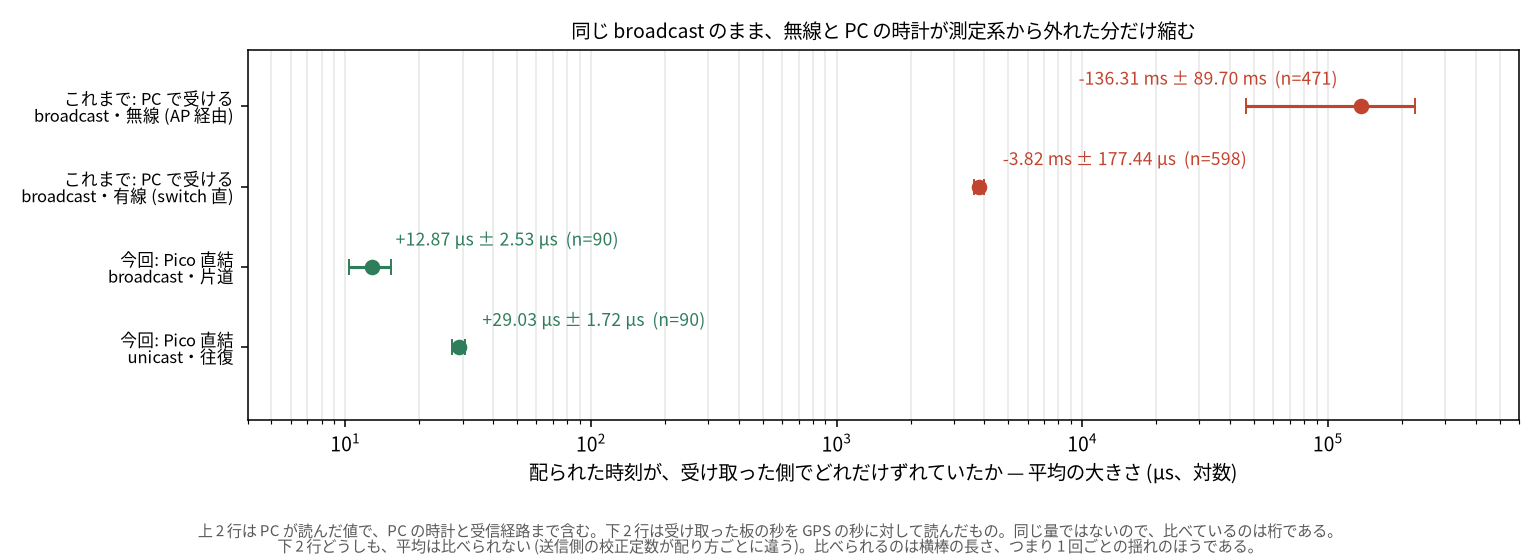
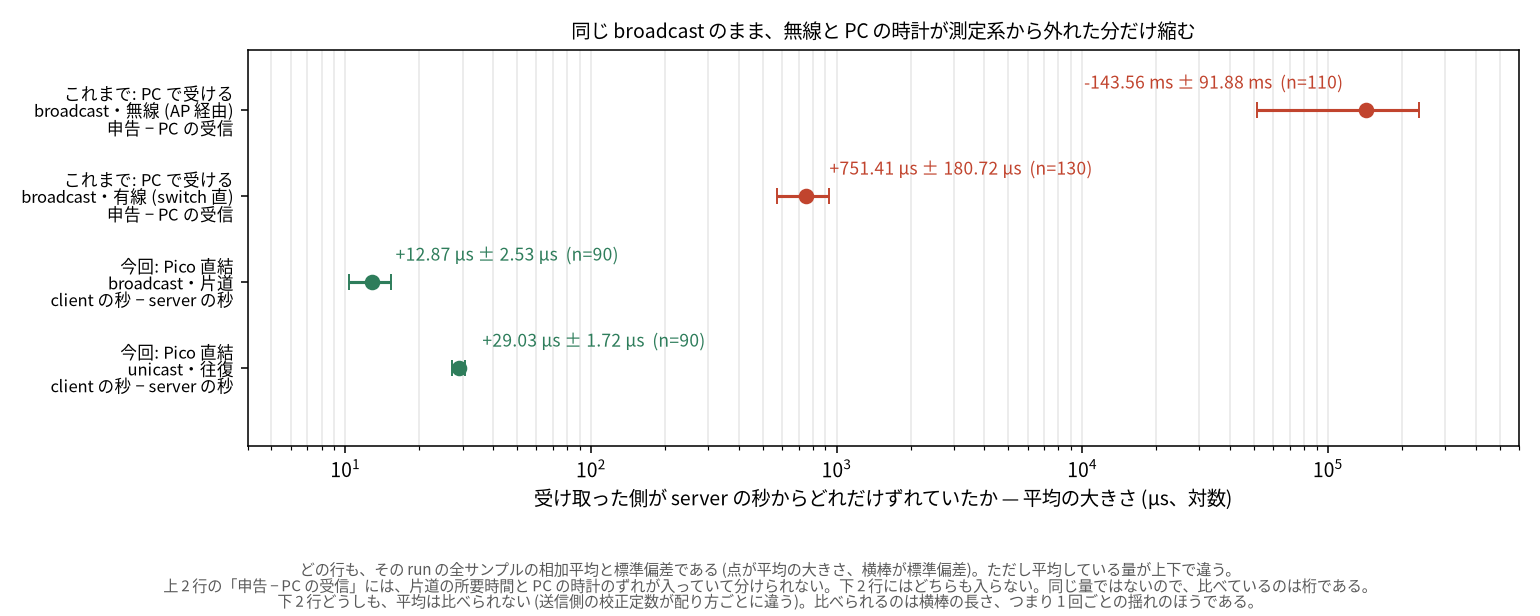
docs(pico-link-ntp): say what is being averaged, and stop mixing mean with median
The figure put four numbers on one axis and called them all 平均 without
naming the quantity: the top two average 申告 − PC の受信 (one-way transit
and the host clock included, inseparable), the bottom two average
client の秒 − server の秒 off the scope.

+677.0 µs and +570.5 µs were medians quoted alongside means. Use the mean
throughout (+751.4, +652.4), and compare against main's post-correction
state rather than the run it later fixed.

Claude-Session: https://claude.ai/code/session_019RSxURXQrEdaZnzWdFm1sE

diff --git a/docs/report/pico-link-ntp/logs/plot_link.py b/docs/report/pico-link-ntp/logs/plot_link.py
@@ -406,12 +406,18 @@ MAIN_IFACES = [
     ("wlp1s0", "broadcast・無線 (AP 経由)"),
     ("eth0", "broadcast・有線 (switch 直)"),
 ]
+# 前回の記録のうち、送信時刻の補正を入れたあとのもの。構成どうしを比べるならこちらを使う。
+MAIN_LOG = "paths-corrected.log"
 
 
-def read_main_offsets():
-    """前回の受信ログから、インタフェースごとの offset (µs) を読む。"""
+def read_main_offsets(name=MAIN_LOG):
+    """前回の受信ログから、インタフェースごとの offset (µs) を読む。
+
+    ログの `offset` は「パケットが申告した送信時刻 − カーネルが付けた受信時刻」である。
+    片道の所要時間も、受信ホストの時計のずれも、この 1 つの値に入っていて分けられない。
+    """
     out = {}
-    with open(os.path.join(RAW_MAIN, "paths.log")) as f:
+    with open(os.path.join(RAW_MAIN, name)) as f:
         for line in f:
             m = RECV_LINE.match(line)
             if m:
@@ -420,7 +426,10 @@ def read_main_offsets():
 
 
 def read_mode_diff(tag):
-    """`pair-mode-<tag>.csv` の client − server を µs で読む。"""
+    """`pair-mode-<tag>.csv` の client − server を µs で読む。
+
+    オシロが 1 回のトリガで読んだ、2 枚の GP6 の立ち上がりの差である。PC の時計は入らない。
+    """
     server, client = read_pairs(f"pair-mode-{tag}.csv")
     return client - server
 
@@ -428,27 +437,36 @@ def read_mode_diff(tag):
 def fig_progression():
     """同じ broadcast のまま、構成を変えると桁がどう動くか。
 
-    前回の 2 行は PC が読んだ値で、PC の時計と受信経路まで含んでいて分けられない。
-    今回の 2 行は受け取った板の秒を GPS の秒に対して直接読んだもので、その分けられない部分が
-    測定系から外れている。同じ量ではないので、比べているのは桁である。
+    どの行も「その run の全サンプルの相加平均」と「その標準偏差」だが、平均している量は上下で
+    違う。上は PC が読んだ「申告 − 受信」、下はオシロが読んだ「client の秒 − server の秒」で、
+    前者には片道の所要時間と PC の時計が入っていて分けられない。比べているのは桁である。
     """
     main = read_main_offsets()
     rows = []
     for iface, label in MAIN_IFACES:
         if iface in main:
-            rows.append(("これまで: PC で受ける", label, main[iface]))
+            rows.append(
+                ("これまで: PC で受ける", label, "申告 − PC の受信", main[iface])
+            )
     for tag, label in (
         ("broadcast", "broadcast・片道"),
         ("unicast", "unicast・往復"),
     ):
         if os.path.exists(os.path.join(RAW, f"pair-mode-{tag}.csv")):
-            rows.append(("今回: Pico 直結", label, read_mode_diff(tag)))
+            rows.append(
+                (
+                    "今回: Pico 直結",
+                    label,
+                    "client の秒 − server の秒",
+                    read_mode_diff(tag),
+                )
+            )
     if not rows:
         print("progression: 読める記録が無い", file=sys.stderr)
         return
 
-    fig, ax = plt.subplots(figsize=(11, 4.0))
-    for i, (era, label, v) in enumerate(rows):
+    fig, ax = plt.subplots(figsize=(11, 4.4))
+    for i, (era, label, _quantity, v) in enumerate(rows):
         y = len(rows) - 1 - i
         colour = "#c1442e" if era.startswith("これまで") else "#2e7d5b"
         mag = abs(v.mean())
@@ -478,10 +496,11 @@ def fig_progression():
     ax.set_xlim(4, 6e5)
     ax.set_yticks(range(len(rows)))
     ax.set_yticklabels(
-        [f"{era}\n{label}" for era, label, _ in reversed(rows)], fontsize=8.5
+        [f"{era}\n{label}\n{quantity}" for era, label, quantity, _ in reversed(rows)],
+        fontsize=8.5,
     )
     ax.set_ylim(-0.9, len(rows) - 0.3)
-    ax.set_xlabel("配られた時刻が、受け取った側でどれだけずれていたか — 平均の大きさ (µs、対数)")
+    ax.set_xlabel("受け取った側が server の秒からどれだけずれていたか — 平均の大きさ (µs、対数)")
     ax.set_title(
         "同じ broadcast のまま、無線と PC の時計が測定系から外れた分だけ縮む", fontsize=10
     )
@@ -489,16 +508,17 @@ def fig_progression():
     fig.text(
         0.5,
         0.015,
-        "上 2 行は PC が読んだ値で、PC の時計と受信経路まで含む。"
-        "下 2 行は受け取った板の秒を GPS の秒に対して読んだもの。同じ量ではないので、"
-        "比べているのは桁である。\n"
+        "どの行も、その run の全サンプルの相加平均と標準偏差である (点が平均の大きさ、"
+        "横棒が標準偏差)。ただし平均している量が上下で違う。\n"
+        "上 2 行の「申告 − PC の受信」には、片道の所要時間と PC の時計のずれが入っていて"
+        "分けられない。下 2 行にはどちらも入らない。同じ量ではないので、比べているのは桁である。\n"
         "下 2 行どうしも、平均は比べられない (送信側の校正定数が配り方ごとに違う)。"
         "比べられるのは横棒の長さ、つまり 1 回ごとの揺れのほうである。",
         fontsize=7.8,
         color="0.35",
         ha="center",
     )
-    fig.tight_layout(rect=(0, 0.10, 1, 1))
+    fig.tight_layout(rect=(0, 0.14, 1, 1))
     path = os.path.join(OUT, "fig-progression.png")
     fig.savefig(path, dpi=140)
     print(f"saved {path}")
